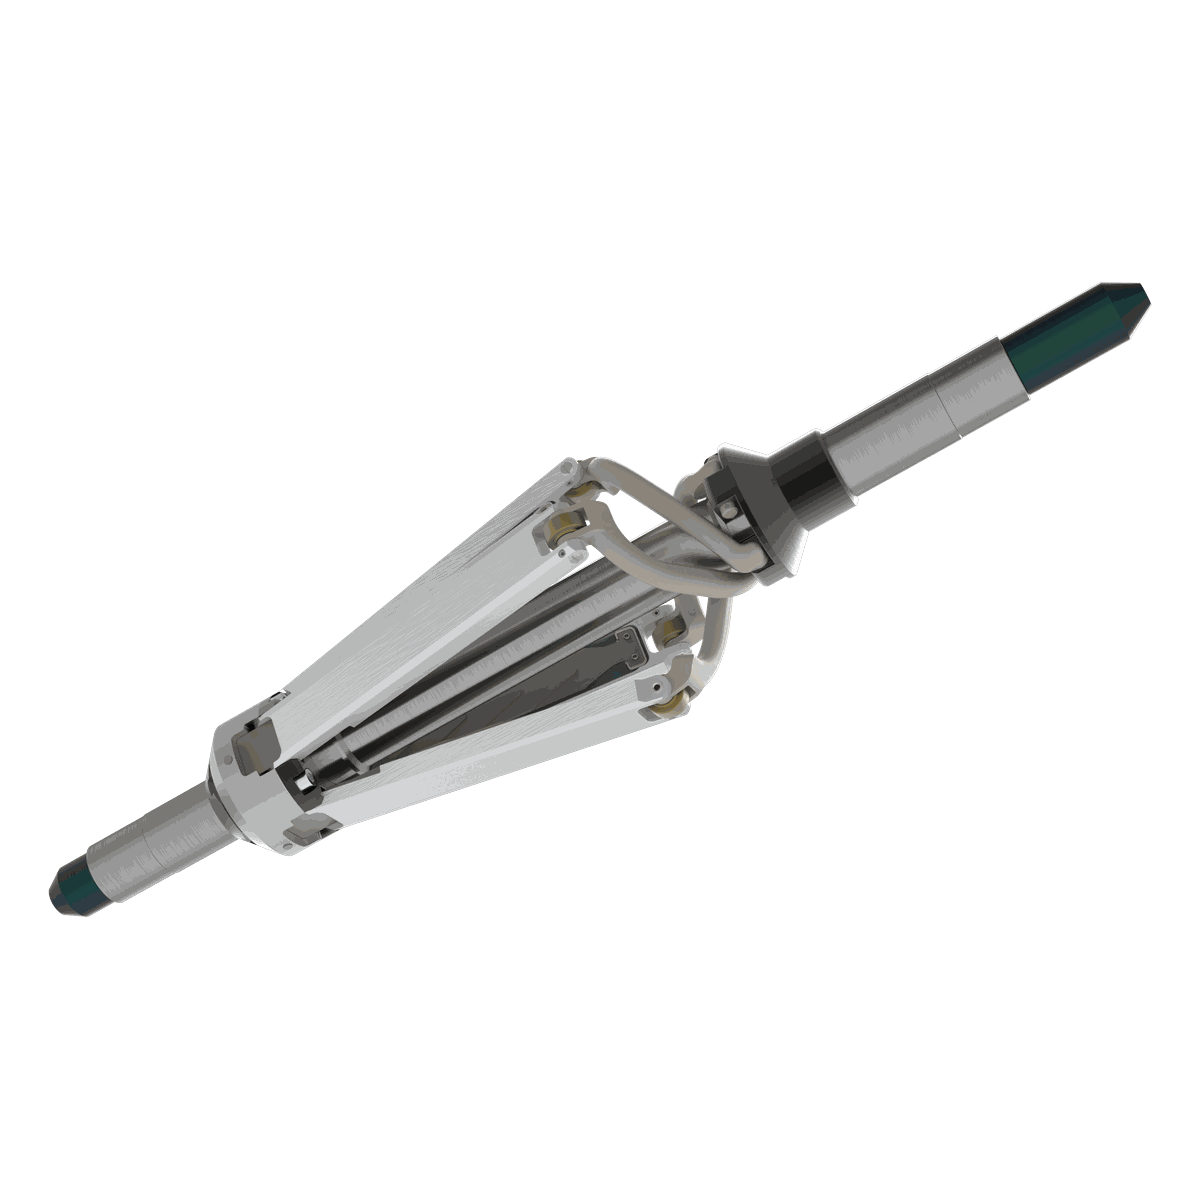
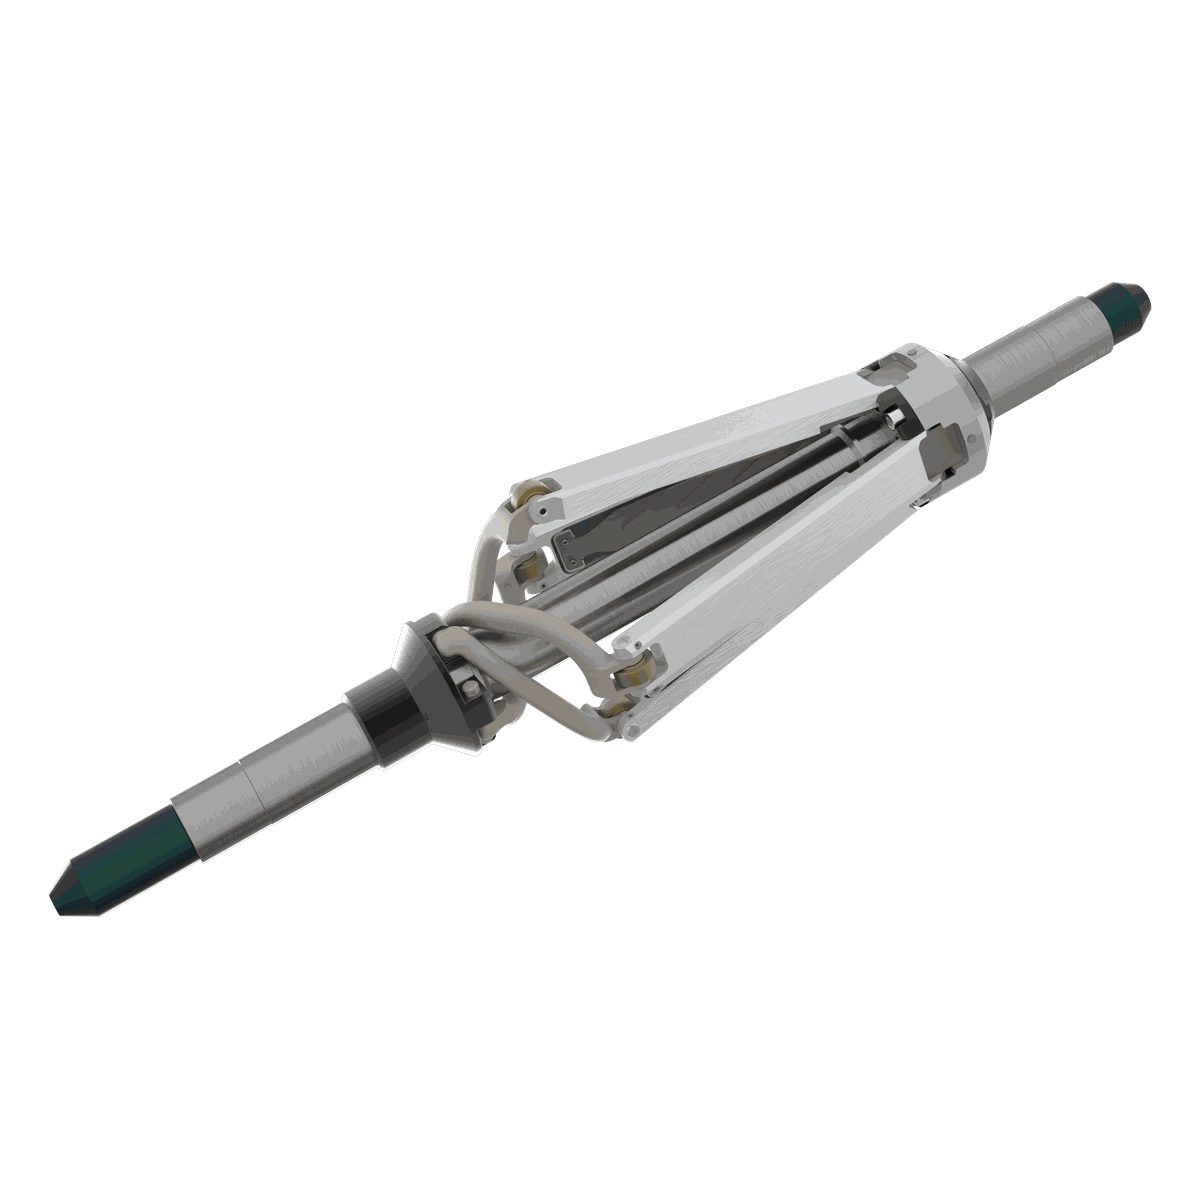
kiosk: OH lane Track Record pill + CX7 final tweaks
OH lane
- New 'Track Record' pill at top-center of LaneClient, fades with the
  same 4 s overlayVisible auto-hide as the bottom prev/next strip.
  Inline map-pin SVG icon. Visible on every clip in the OH playlist
  (including the dice intro). Tap routes to /intranet/kiosk/dashboard
  via next/navigation, no full page reload. New KIOSK_DASHBOARD_PATH
  constant in src/constants/app.ts.

CX7
- Rotated +180 CCW from the previous orientation (total +270 from
  original). Re-processed from originals/CX7.png so no compounding
  loss. Body at upper-right, narrow shaft + green tip at lower-left.
- Casing-range sublabel corrected: 5½" – 7"  →  4½" – 7".

docs/KIOSK.md
- Rewrote the offline checklist as a step-by-step trade-show setup
  walkthrough: PWA install → prime via splash pill → same Wi-Fi →
  Fire Stick Home-hold → Mirroring → Smart View on the tablet →
  aspect-ratio tuning → ?sd=1 stutter fix → offline verification.
- Refreshed Routes & flow to match the May 2026 CH orchestrator,
  bumped SW VERSION example v10 → v16.

Changed region(s): [[0.0308, 0.2158, 0.9558, 0.7708]]

diff --git a/src/app/(kiosk)/intranet/kiosk/lane/LaneClient.tsx b/src/app/(kiosk)/intranet/kiosk/lane/LaneClient.tsx
@@ -4,7 +4,7 @@ import { Suspense, useCallback, useEffect, useRef, useState } from 'react';
 import { useRouter, useSearchParams } from 'next/navigation';
 import { getKioskPrimeMode } from '@/hooks/useKioskDisplay';
 import { useKioskVideos } from '@/hooks/useKioskVideo';
-import { KIOSK_CH_PATH } from '@/constants/app';
+import { KIOSK_CH_PATH, KIOSK_DASHBOARD_PATH } from '@/constants/app';
 
 const OVERLAY_AUTOHIDE = 4_000; // hide the controls after this idle gap
 
@@ -158,6 +158,40 @@ function LaneLoopContent() {
       />
       {/* Dim so controls stay readable over bright frames */}
       <div className="absolute inset-0 bg-black/35 z-0 pointer-events-none" />
+
+      {/* Track Record shortcut — small pill at top-center that fades with
+          the same 4 s auto-hide as the bottom prev/next strip. Visible on
+          every clip in the OH playlist (including dice) so a presenter can
+          jump straight to the operations map without backing out to the
+          splash. */}
+      <button
+        onClick={(e) => {
+          e.stopPropagation();
+          router.push(KIOSK_DASHBOARD_PATH);
+        }}
+        aria-label="Open Track Record map"
+        className={`absolute top-4 left-1/2 -translate-x-1/2 z-20 flex items-center gap-1.5 px-3 py-1.5 rounded-full bg-black/55 border border-white/10 text-white/85 hover:text-white hover:bg-black/75 text-xs font-medium tracking-wide shadow-lg transition-opacity duration-300 ${
+          overlayVisible ? 'opacity-100' : 'opacity-0 pointer-events-none'
+        }`}
+      >
+        {/* Inline pin icon — same style as the splash's prime SVG so the
+            lane chrome stays lucide-react-free. */}
+        <svg
+          xmlns="http://www.w3.org/2000/svg"
+          viewBox="0 0 24 24"
+          fill="none"
+          stroke="currentColor"
+          strokeWidth="2"
+          strokeLinecap="round"
+          strokeLinejoin="round"
+          aria-hidden="true"
+          className="h-3.5 w-3.5"
+        >
+          <path d="M20 10c0 6-8 12-8 12s-8-6-8-12a8 8 0 0 1 16 0Z" />
+          <circle cx="12" cy="10" r="3" />
+        </svg>
+        <span>Track Record</span>
+      </button>
 
       {/* Playlist controls — small prev/next chevrons + one dot per
           narrated clip (dice excluded). When dice is playing, no dot is

diff --git a/src/components/kiosk/ch/HelixProductScreen.tsx b/src/components/kiosk/ch/HelixProductScreen.tsx
@@ -46,7 +46,7 @@ const VARIANTS: ReadonlyArray<{
   label: string;
   sublabel: string;
 }> = [
-  { src: '/images/kiosk-images/CX7.png', label: 'CX7', sublabel: '5½" – 7"' },
+  { src: '/images/kiosk-images/CX7.png', label: 'CX7', sublabel: '4½" – 7"' },
   { src: '/images/kiosk-images/CX9.png', label: 'CX9', sublabel: '7" – 9⅝"' },
   {
     src: '/images/kiosk-images/CX13.png',

diff --git a/src/constants/app.ts b/src/constants/app.ts
@@ -7,6 +7,7 @@ export const KIOSK_LANE_PATH = '/intranet/kiosk/lane';
 export const KIOSK_CH_PATH = '/intranet/kiosk/ch';
 export const KIOSK_PRODUCTLINES_PATH = '/intranet/kiosk/productlines';
 export const KIOSK_PRIME_PATH = '/intranet/kiosk/prime';
+export const KIOSK_DASHBOARD_PATH = '/intranet/kiosk/dashboard';
 
 // App-wide constants
 export const APP_CONSTANTS = {

diff --git a/docs/KIOSK.md b/docs/KIOSK.md
@@ -8,15 +8,25 @@ We pre-cache the kiosk shell and small data files, and runtime‑cache large med
 ## Routes & flow
 
 ```
-/intranet/kiosk                            splash (typed text → Open Hole / Cased Hole buttons)
-   └─► /intranet/kiosk/lane?lane=oh|ch      per-lane looping video screen + right-side overlay
-        ├─► OH overlay: Formation Testing, High Deviation, Data Quality, Pathfinder
-        │     → OverlayExperience (looping video + HUD; Helix-pattern scaffold)
-        └─► CH overlay: Helix, Rocker, Other
-              → Helix  → HelixExperience (Helix video loop + HUD
-                          + Rocker corner badge)
-              → Rocker → RockerExperience
-              → Other  → "Coming soon" placeholder
+/intranet/kiosk                            splash (typed text → Open Hole / Cased Hole
+                                            + bottom-right "Prime offline" pill)
+   ├─► /intranet/kiosk/lane?lane=oh         OH attractor — fullscreen subtitled-video
+   │                                        playlist (dice intro + 3 narrated clips),
+   │                                        native play/pause/scrub controls on the
+   │                                        narrated clips, prev/next + dot strip at
+   │                                        bottom-centre. No more side button strip.
+   │
+   ├─► /intranet/kiosk/ch                   CH orchestrator (HelixExperience). Three
+   │                                        view tiers:
+   │     1. video    looping Helix attractor + two bottom-right corner badges
+   │                 (Helix, Rocker) + top-right ✕
+   │     2. product  HelixProductScreen (CX7/CX9/CX13 panels) or
+   │                 RockerProductScreen (Rocker + Rocker Inline). Persistent
+   │                 top pill: Mechanism · Case Studies · Specifications.
+   │     3. m/cs     MechanismScreen / LogsScreen, same pill, ✕ → video.
+   │
+   └─► /intranet/kiosk/prime                staff utility: warm SW cache for
+                                            offline use (see Trade-show setup below)
 
 /intranet/kiosk/productlines?lane=oh|ch     legacy tile grid (still works; no longer
                                             in the main flow)
@@ -26,13 +36,7 @@ We pre-cache the kiosk shell and small data files, and runtime‑cache large med
 /intranet/kiosk/datacheck                  data validation tools
 ```
 
-The splash picks a lane directly (Open Hole / Cased Hole). Each lane lands
-on `/intranet/kiosk/lane?lane=…`, which loops that lane's attractor videos
-fullscreen with a persistent overlay button strip on the right — the same
-buttons regardless of which clip is playing. Tapping an overlay button opens
-that product's experience. The old `/lane` card chooser was retired and the
-`/productlines` tile grid is no longer in the funnel, though the route still
-works for direct links.
+Specifications is a modal: tapping the pill button opens `SpecsModal` on top of whichever screen is below. Track Record + Success Stories live INSIDE Case Studies — the drill-down map is the first slide of the pager, and the in-map link opens Success Stories as an inline takeover. The old CH lane attractor at `/lane?lane=ch` redirects to `/ch` for bookmarks. The standalone `RockerExperience.tsx` was retired in May 2026.
 
 ### Video sources
 
@@ -72,13 +76,13 @@ encoder to chew on.
 The kiosk service worker lives at `public/kiosk-sw.js` and uses a version string:
 
 ```js
-const VERSION = 'v10';
+const VERSION = 'v16';
 ```
 
 **When you need to refresh cached content** (e.g., new videos/flipbooks or data files):
 1. Bump `VERSION` in `public/kiosk-sw.js`.
 2. Deploy.
-3. On the kiosk device, reload the kiosk once while online.
+3. On the kiosk device, reload the kiosk once while online, then re-prime via the splash's "Prime offline" pill.
 
 This forces the old caches to be evicted during SW `activate` and rebuilds fresh caches.
 
@@ -89,30 +93,69 @@ response into a `206 Partial Content`, so seeking and offline playback both
 work after priming. Non-media Range requests still fall through to the
 network. See `serveRangeFromCache()` in `public/kiosk-sw.js`.
 
-## Offline Ready Checklist
-1. Connect the kiosk device to a stable network.
-2. Visit these routes once to prime caches:
-   - `/intranet/kiosk`                           (splash)
-   - `/intranet/kiosk/lane?lane=oh`              (let the OH attractor playlist loop once;
-                                                  then tap each overlay button to prime
-                                                  its experience video + Track Record + flipbook)
-   - `/intranet/kiosk/lane?lane=ch`              (same — open Helix and Rocker experiences once)
-   - `/intranet/kiosk/dashboard`
-   - `/intranet/kiosk/successstories`
-3. Wait for all videos and flipbooks to load at least once.
-4. Toggle DevTools → Application → Service Workers → Offline and refresh.
-5. Confirm:
-   - Lane attractor loops play
-   - Helix / Rocker / OH overlay experiences open with video
-   - Map loads
-   - Success Stories flipbook loads
-   - Videos and flipbooks are cached
+## Trade-show kiosk setup
 
-> The legacy `/intranet/kiosk/productlines` tile grid still works for direct
-> links but is no longer in the main flow, so it isn't part of the priming
-> routine.
+End-to-end walkthrough for a fresh Android tablet + Amazon Fire Stick on a TV. Each step takes a minute or two. Do them in order — a couple of them depend on the previous one.
 
-If content appears stale, clear site data for the kiosk domain and repeat.
+### 1. Install the kiosk on the tablet
+
+1. On the Android tablet, open **Chrome** and go to the deployed kiosk URL.
+2. Chrome menu (⋮ top right) → **Install app** (or **Add to Home screen** on older Chrome).
+3. Find the "Petromac" icon on the home screen and tap to launch. The PWA runs fullscreen with no browser chrome.
+4. Confirm the splash renders ("Petromac · Disruptive Conveyance Solutions" with Open Hole and Cased Hole buttons).
+
+### 2. Prime the offline cache
+
+1. On the splash, tap the small **Prime offline** pill at the bottom-right.
+2. On the prime screen, tap **Start priming**.
+3. Wait for every row to reach **OK** — usually 1–2 minutes on decent Wi-Fi. Total payload is roughly 50–80 MB of video, plus images and flipbooks.
+4. The top status card should read **Ready for offline** when the run finishes.
+5. Tap **Open kiosk** (top-right of the prime screen) to return to the splash.
+
+> Want the sharper 1080p videos cached too? Tick **Include 1080p videos + 3D models** before starting. Skip it for mirrored Fire Stick setups — the SD set is what plays in mirroring mode anyway, and the HD pull adds ~175 MB.
+
+### 3. Connect the Fire Stick and the tablet to the same Wi-Fi
+
+1. **Fire Stick:** Settings → **Network** → join the show's Wi-Fi network.
+2. **Tablet:** Settings → **Wi-Fi** → join the same network.
+3. Both devices must be on the same Wi-Fi (and same subnet, if the show network has multiple). Mirroring discovery won't work otherwise.
+
+### 4. Put the Fire Stick into Mirroring mode
+
+1. On the Fire Stick remote, **press and hold the Home button** for ~3 seconds.
+2. The quick menu pops up. Pick **Mirroring**.
+3. The TV now shows a "Ready to connect" screen with the Fire Stick's device name (e.g. "Petromac-FireTV").
+
+### 5. Cast from the tablet (Smart View)
+
+1. On the tablet, open the **Quick Settings** panel (swipe down twice from the top).
+2. Tap **Smart View** (Samsung) — or **Cast** / **Screen mirroring** on other Android brands.
+3. Tap the Fire Stick from the device list. Accept any pairing prompt on the TV.
+4. The TV should now mirror whatever is on the tablet screen, including the kiosk PWA.
+
+### 6. Get a full-screen image on the TV
+
+If the kiosk renders with letterbox bars, looks small in a corner, or has its chrome cropped by overscan, tune in this order:
+
+1. **Tablet rotation** — make sure the tablet is locked in **landscape**. Smart View mirrors whatever the tablet is doing; if the tablet is portrait the TV gets pillarboxes either side.
+2. **Smart View aspect** — open the Smart View notification on the tablet → **⋮** menu → **Aspect ratio** (or **Phone aspect ratio** vs **Full screen on TV**). Pick **Full screen on TV**.
+3. **TV picture size** — on the TV remote, open Picture Settings → set **Picture Size / Aspect Ratio** to **Screen Fit** or **Just Scan** (avoid 4:3 or "Auto Wide").
+4. **Overscan safety** — if a sliver of the kiosk's top-right ✕ or bottom-right badges is being clipped by the TV bezel, navigate the kiosk once to `/intranet/kiosk?tv=1` to enable a 3% safe-area scale. The flag sticks via sessionStorage; you only need to do it once per session.
+
+### 7. If the video stutters
+
+Mirroring uses the **tablet** as the renderer + encoder, so it's the tablet's CPU getting taxed. If the kiosk video looks janky on the TV:
+
+- Navigate the kiosk once to `/intranet/kiosk?sd=1` — the flag is sticky and forces 540p playback, cutting the mirror encoder's per-frame work. The Helix / lane attractor videos still look fine at SD on a 1080p TV when viewed from across a booth.
+- If a deeper view is open (Mechanism / Case Studies), close back to the looping video — fewer overlays = less compositing.
+
+### Verifying offline-readiness
+
+Once you've primed and confirmed the TV is happy, sanity-check that the kiosk really survives losing Wi-Fi:
+
+1. On the tablet, toggle **Wi-Fi off** (or put the tablet in Airplane Mode and turn Wi-Fi back on if needed for mirroring — Fire Stick will keep the local Miracast link).
+2. Walk through the kiosk: Open Hole lane attractor loops, Cased Hole lands on the Helix video, both product pages render with images, Mechanism slides and Case Studies pager work, the map and Success Stories flipbook load.
+3. Anything stale or missing → return to the splash, tap **Prime offline**, then **Retry priming**. Failed rows re-fetch on retry; "ok" rows skip.
 
 ## Notes
 - Next.js image optimization outputs (`/_next/image`) are cached for kiosk use.
